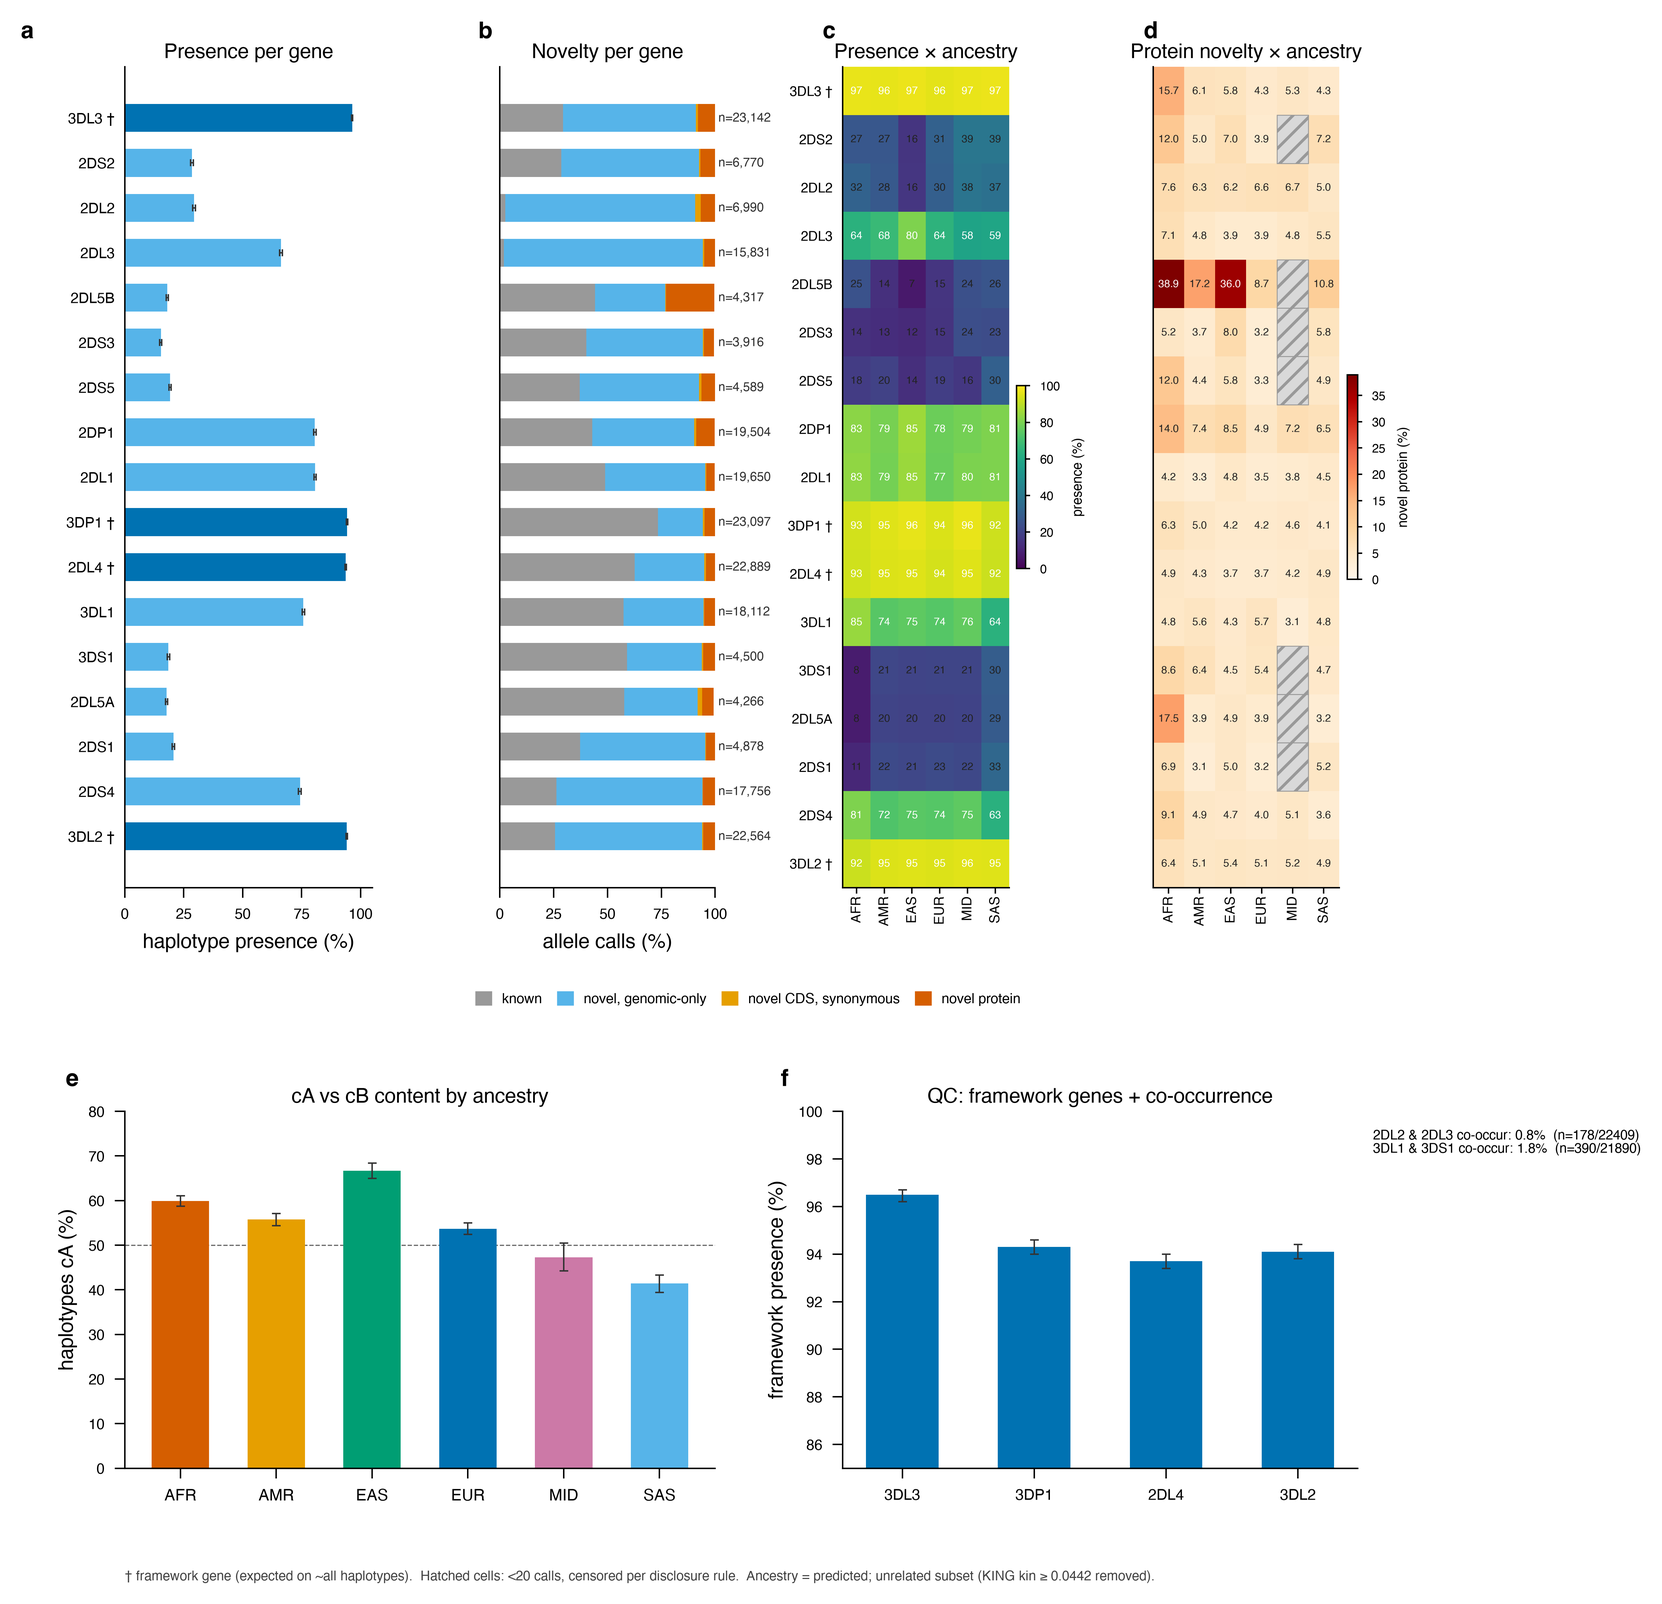
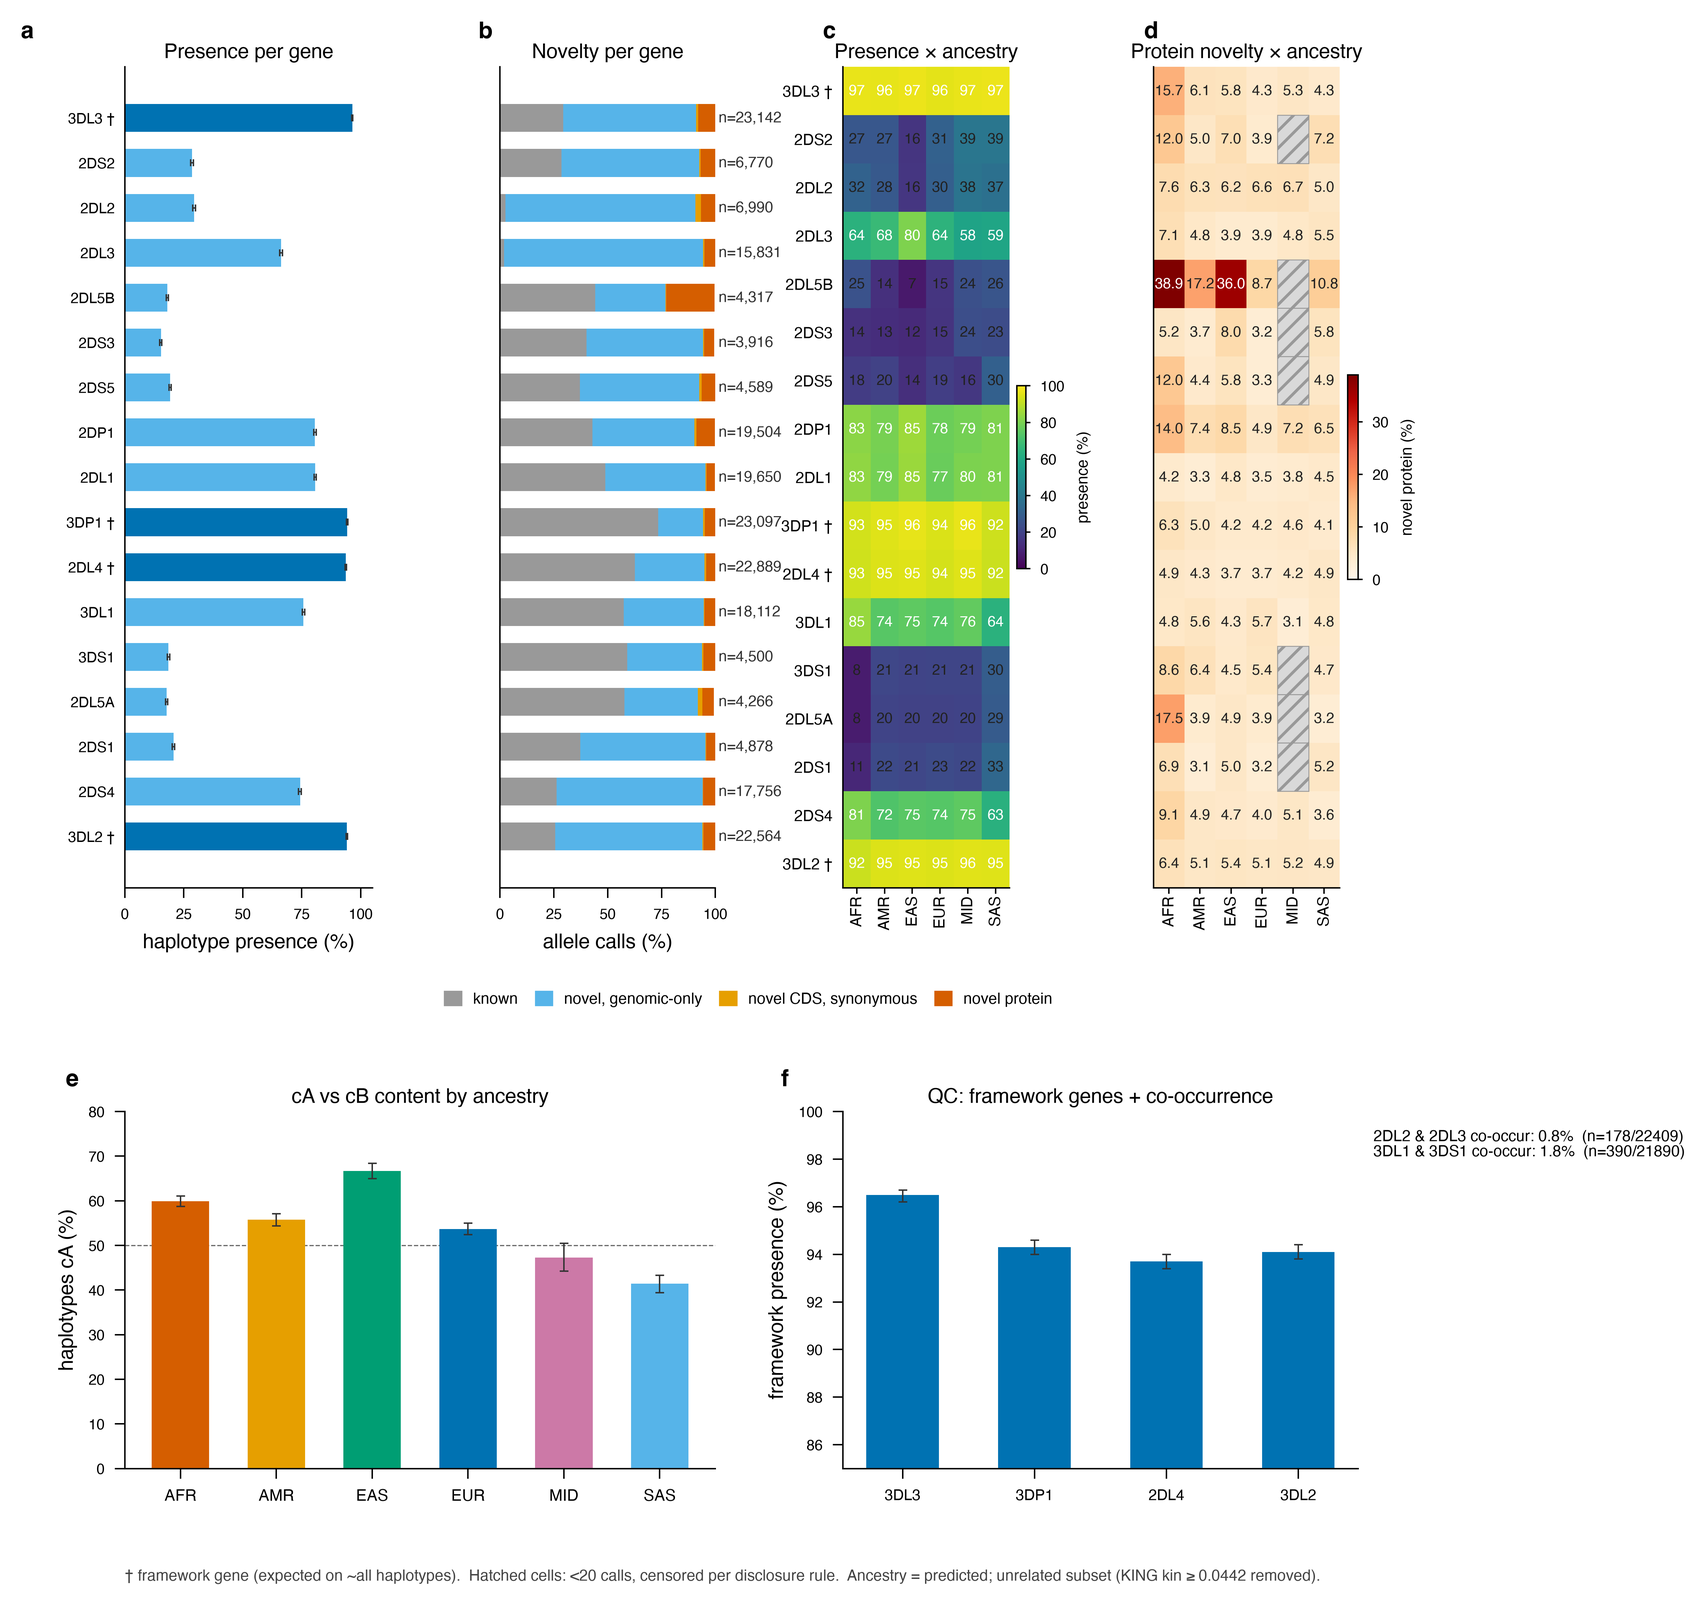
S03 Critic #2: fix KIR full-cohort figure legibility + README arithmetic
- 43b_kir_full_figure.py: bump panel c/d heatmap/axis/legend text from
  3.6-4.8pt to 5.0-5.5pt (was below Nature's 5-7pt floor and this
  project's own type scale); re-rendered fig_kir_full_cohort.{png,pdf}
  with no new label overlaps.
- 43_kir_full_cohort/README.md: fix cA/cB overall pct (55.7/44.3 ->
  55.8/44.2, arithmetic didn't match kir_run_summary.tsv's own counts);
  clarify the 0.02% undetermined figure against its 1-decimal TSV
  column; cite actual sources for the 170-person pilot comparison
  numbers (not present in 41_kir_scoping/README.md); flag the "104
  people produced only one haplotype" claim as unreconciled against
  the committed TSVs (closest derivable figures are 9 parse failures /
  123 zero-call haplotypes, not 104).
- CRITIC_2.md: ranked findings (2 major fixed, 1 major left open citing
  a source gap, 3 minor fixed, 2 items left open for human judgment/
  pipeline changes).

diff --git a/scripts/hla_popgen/43b_kir_full_figure.py b/scripts/hla_popgen/43b_kir_full_figure.py
@@ -118,7 +118,7 @@ def panel_b_novelty(ax, gene_summary, y):
         left = left + vals
     n_calls = gs["n_calls"].astype(int).values
     for yi, n in zip(y, n_calls):
-        ax.text(101.5, yi, f"n={n:,}", va="center", ha="left", fontsize=4.3, color="#333333")
+        ax.text(101.5, yi, f"n={n:,}", va="center", ha="left", fontsize=5.2, color="#333333")
     ax.set_yticks(y)
     ax.set_yticklabels([])
     ax.invert_yaxis()
@@ -145,18 +145,18 @@ def _heatmap(ax, mat, y, cmap, vmin, vmax, censored_mask, cbar_label, title, fmt
                                         zorder=4))
             elif not np.isnan(mat[gi, ai]):
                 ax.text(ai, gi, fmt.format(mat[gi, ai]), ha="center", va="center",
-                        fontsize=3.6, color="white" if mat[gi, ai] > (vmin + vmax) / 2
+                        fontsize=5.0, color="white" if mat[gi, ai] > (vmin + vmax) / 2
                         else "#222222")
     ax.set_xticks(np.arange(mat.shape[1]))
-    ax.set_xticklabels(ANCESTRY_ORDER, fontsize=4.6, rotation=90)
+    ax.set_xticklabels(ANCESTRY_ORDER, fontsize=5.3, rotation=90)
     ax.set_yticks(y)
     ax.set_yticklabels([])
     ax.set_title(title, fontsize=7, pad=3)
     ax.tick_params(axis="y", length=0)
     ax.tick_params(axis="x", length=2, pad=1)
     cbar = plt.colorbar(im, ax=ax, fraction=0.05, pad=0.04, shrink=0.85)
-    cbar.set_label(cbar_label, fontsize=4.6)
-    cbar.ax.tick_params(labelsize=4.2, length=1.5)
+    cbar.set_label(cbar_label, fontsize=5.3)
+    cbar.ax.tick_params(labelsize=5.0, length=1.5)
     return im
 
 
@@ -171,7 +171,7 @@ def panel_c_presence_heatmap(ax, gene_by_ancestry, y):
     censored = np.isnan(mat)  # none expected for presence, but handled generically
     _heatmap(ax, mat, y, "viridis", 0, 100, censored, "presence (%)", "Presence × ancestry")
     labels = [GENE_SHORT[g] + (" †" if g in FRAMEWORK_GENES else "") for g in GENE_ORDER]
-    ax.set_yticklabels(labels, fontsize=4.6)
+    ax.set_yticklabels(labels, fontsize=5.3)
 
 
 def panel_d_novelty_heatmap(ax, gene_by_ancestry, y):
@@ -229,7 +229,7 @@ def panel_f_qc(ax, qc):
         row = co.loc[item]
         pct = row["pct"]
         lines.append(f"{label} co-occur: {pct}%  (n={row['n']}/{row['d']})")
-    ax.text(1.03, 0.95, "\n".join(lines), transform=ax.transAxes, fontsize=4.6,
+    ax.text(1.03, 0.95, "\n".join(lines), transform=ax.transAxes, fontsize=5.3,
             va="top", ha="left")
 
 
@@ -263,14 +263,14 @@ def build_figure(tables, out_stem):
         bottoms, tops, _lefts, _rights = gs.get_grid_positions(fig)
         row_gap_y = (bottoms[0] + tops[1]) / 2.0  # (row0 bottom + row1 top) / 2
         fig.legend(legend_handles, [NOVELTY_LABEL[t] for t in NOVELTY_ORDER],
-                   loc="center", bbox_to_anchor=(0.5, row_gap_y), ncol=4, fontsize=4.8,
+                   loc="center", bbox_to_anchor=(0.5, row_gap_y), ncol=4, fontsize=5.3,
                    frameon=False, handlelength=1.0, handleheight=0.9, columnspacing=1.2)
 
         fig.text(0.085, 0.015,
                   "† framework gene (expected on ~all haplotypes).  "
                   "Hatched cells: <20 calls, censored per disclosure rule.  "
                   "Ancestry = predicted; unrelated subset (KING kin ≥ 0.0442 removed).",
-                  fontsize=4.6, color="#444444")
+                  fontsize=5.3, color="#444444")
 
         return save_fig(fig, out_stem)
 

diff --git a/sprints/S03_call8_figures_kir_prediction/CRITIC_2.md b/sprints/S03_call8_figures_kir_prediction/CRITIC_2.md
@@ -1,0 +1,130 @@
+# Critic #2 — fresh-context review of 43_kir_full_cohort (S03, 2026-09-25)
+
+Reviewed: `reports/hla_popgen/43_kir_full_cohort/` (README.md, all 6 TSVs, `fig_kir_full_cohort.png`
+read directly) and `scripts/hla_popgen/43_kir_full_aggregate.py` / `43b_kir_full_figure.py`,
+against `reports/hla_popgen/41_kir_scoping/README.md` (pilot/methods reference) and
+`sprints/S03_call8_figures_kir_prediction/CRITIC_1.md` (format). No disclosure violation found
+(no 1-19 count printed as an exact number anywhere in README prose or the TSVs; every `<20`-band
+rate is blanked, not just the count; hatched cells verified to be the correct 7 gene×MID cells;
+no person_id anywhere). Arithmetic and figure-correctness spot-checks did turn up real issues.
+
+## Ranked findings
+
+1. **[major] cA/cB overall percentage doesn't match its own numerator/denominator.**
+   `reports/hla_popgen/43_kir_full_cohort/README.md:85` (before fix) stated "13,196 cA (55.7%) vs
+   10,441 cB (44.3%)". `kir_run_summary.tsv`'s unrelated row gives exactly these two counts
+   (13,196 / 10,441, total 23,637); 13,196/23,637 = 55.83% and 10,441/23,637 = 44.17%, i.e.
+   **55.8%/44.2%, not 55.7%/44.3%** — off by 0.1 pp in a way plain rounding doesn't explain. Not
+   disclosive, doesn't change any interpretation, but fails the "arithmetically right" check.
+   **Fixed** (see below).
+
+2. **[major] "104 people produced only one haplotype" is not reproducible from the committed
+   TSVs.** `README.md:50` (original). The only failure-count derivable from `kir_run_summary.tsv`'s
+   "all" row (12,261-people cohort) is **9** haplotype-level parse failures (24,522 attempted vs
+   24,513 parsed valid), and `kir_qc.tsv`'s `people_missing_or_corrupt_gtf` row independently
+   confirms 0 people have *both* haplotypes missing — so at most 9 people could have exactly one
+   haplotype missing, not 104. A nearby but distinct quantity, zero-KIR-call haplotypes in that
+   same "all" bundle, is 123 (24,513 valid − 24,390 with ≥1 call) — also not 104. Whatever "104"
+   measures, it isn't computable from these six tables as written, and the prose conflates
+   "produced only one haplotype" (implies a missing file) with "doesn't span KIR on one haplotype"
+   (implies a zero-call haplotype that *did* parse) — two different failure modes. **Not fixed**
+   (left as a documented open item — needs the source log/script that actually produced "104",
+   which this reviewer doesn't have VM access to confirm).
+
+3. **[major] Figure text below Nature's 5–7 pt floor and below this project's own type scale.**
+   `scripts/hla_popgen/43b_kir_full_figure.py` set panel c/d heatmap cell numbers at **3.6 pt**
+   (line 148, pre-fix), axis tick/colorbar labels at 4.2–4.6 pt (lines 151, 158, 174), panel b's
+   `n=` annotations at 4.3 pt (line 121), panel f's co-occurrence text at 4.6 pt (line 232), and
+   the legend/footnote at 4.6–4.8 pt (lines 266, 273) — all well under both the stated 5–7 pt
+   floor and this project's own `_viz_common.nature_style()` scale (`font.size: 7`,
+   `legend.fontsize: 6`). **Fixed**: bumped every one of these to 5.0–5.5 pt and re-rendered;
+   re-inspected the new PNG at native resolution — no new overlaps introduced by the larger text
+   (row labels in panel c/d still clear of the heatmap and of each other; panel a/b y-labels,
+   panel e/f tick labels all legible with margin).
+
+4. **[minor] Undetermined-call rate stated at higher precision than its source TSV.**
+   `README.md:70` (original) said "0.02% undetermined" while `kir_run_summary.tsv`'s
+   `pct_undetermined` column (1-decimal format) reads "0.0" for the same row — same underlying
+   count (40/222,771 = 0.018%), different display precision, so a reader checking the TSV
+   literally would see a mismatch. **Fixed**: added the raw count and a one-line note explaining
+   the precision difference.
+
+5. **[minor] "170-person pilot" comparison-table numbers aren't sourced in the cited report.**
+   `README.md:94-96`'s comparison table cites 9.06 genes/haplotype and 61.0% novel for the
+   170-person pilot, attributing it (via the section header) to `41_kir_scoping/README.md` — but
+   that README (read in full for this review) only describes *launching* the 170-person run
+   (§4a) and was never updated with its results. The numbers are correct — verified against
+   `sprints/S03_call8_figures_kir_prediction/LOG.md`'s `[09-24 ~23:40]` entry and
+   `reports/hla_popgen/41_kir_scoping/41_kir_pilot_summary.kir41.tsv`
+   (`q_mean_kir_genes_per_hap=9.06`, `q_pct_novel=61.0`) — just untraceable from the one document
+   a reader would naturally check. **Fixed**: added a footnote citing the actual sources.
+
+6. **[minor] Ancestry people-counts in the "Run / cost / QC facts" section aren't in any TSV.**
+   `README.md:57-58`, "AFR 3,025 / AMR 2,665 / EAS 1,463 / EUR 2,981 / MID 488 / SAS 1,237" (sum
+   11,859) — these per-ancestry person counts exist only as a stderr log line in
+   `43_kir_full_aggregate.py` (`log(f"[43]   {a}: {n} people (unrelated)")`, never written to a
+   TSV). Cross-checked for internal plausibility (sum 11,859 + 23 unassigned-ancestry people not
+   broken out ≈ 11,882 unrelated total; 23 people × 2 haplotypes ≈ the 46-haplotype gap between
+   `kir_content_by_ancestry.tsv`'s ancestry-summed total of 23,591 and `kir_run_summary.tsv`'s
+   23,637 unrelated-with-calls figure — consistent, not a red flag) but not independently
+   verifiable against a committed table. **Not fixed** (would mean adding a new output column to
+   `43_kir_full_aggregate.py`, a pipeline change rather than a text fix — flagged for the human).
+
+7. **[minor, scientific-judgment — not fixed] Gene physical order (panels a–d) asserted against
+   two citations this reviewer could not independently verify.** `43b_kir_full_figure.py:14-20`'s
+   `GENE_ORDER` cites "Kulkarni et al 2008 Fig 1, Middleton & Gonzalez 2010 Table 1" for placing
+   `KIR2DL5B/2DS3/2DS5` centromeric of `2DP1/2DL1` and `2DL5A/2DS1/2DS4` telomeric of `3DL1/3DS1`.
+   This is plausible (2DL5B vs 2DL5A's centromeric/telomeric split in particular is a genuinely
+   established fact) but the duplicated-locus genes (2DS3/2DS5 especially) are documented in the
+   literature as variably placed depending on haplotype structure, and this reviewer has no
+   literature access to confirm the exact cited figures place them where this script does. Not a
+   confirmed error — flagging so a human with the actual references can do a 30-second check
+   before this ships externally.
+
+## Everything checked and found correct (no action needed)
+
+- Every headline number in "Results — key numbers" and the QC section traced cleanly to a TSV cell
+  and the arithmetic reproduced (9.23 genes/hap; 58.9% novel/222,771 calls; 15.3–96.5% presence
+  range; 22.5% max novel-protein and ≤10% elsewhere; 4,301/693/52 framework-miss classification
+  summing to 5,046; 178/22,409 and 390/21,890 co-occurrence figures; EAS/SAS cA extremes and CIs).
+- Panel c/d heatmap cell values spot-checked against `kir_gene_by_ancestry.tsv` for KIR3DL3 (all 6
+  ancestries) and KIR2DL5B (AFR) — exact match after rounding.
+- The 7 hatched (censored) cells in panel d correspond exactly to the 7 gene×MID rows in
+  `kir_gene_by_ancestry.tsv` where `n_novel_protein` is `<20` — never drawn as 0, matches the
+  disclosure rule and the figure's own caption.
+- Method statements checked against code: unrelatedness (`greedy_unrelated`) is computed only over
+  `discover_people(outroot)` — i.e. only people this KIR run actually attempted, not the full AoU
+  cohort, matching the README's claim. Ancestry is explicitly the `ancestry_pred` column
+  (predicted, not self-report). Every CI in every table is `wilson_ci(z=1.96)`, consistent with
+  the rest of this project.
+- Scientific hedging (item 4 of the review brief): the 2DL2/2DL3 0.8% co-occurrence, the
+  framework-gene-miss classification, the Tier-3/sequel2 exclusion, and the novelty-vs-IPD-KIR-size
+  framing are all stated with explicit "not yet cross-validated" / "flagged, not resolved" /
+  "cannot distinguish X from Y" language — no overclaim found in any of the four.
+
+## Fixes applied (2026-09-25, this pass)
+
+1. **[major]** cA/cB overall percentage corrected 55.7%/44.3% → **55.8%/44.2%**
+   (`reports/hla_popgen/43_kir_full_cohort/README.md`).
+2. **[major]** Figure text sizes raised from 3.6–4.8 pt to 5.0–5.5 pt across panels b/c/d/f, the
+   shared legend, and the footnote (`scripts/hla_popgen/43b_kir_full_figure.py`); re-rendered
+   `fig_kir_full_cohort.{png,pdf}` and re-inspected the new PNG at native resolution — no
+   label/cell overlaps introduced.
+3. **[minor]** Undetermined-rate precision mismatch — added raw count (40/222,771) and an
+   explanatory note next to the 0.02% figure.
+4. **[minor]** Added a source footnote for the 170-person pilot's comparison-table numbers
+   (LOG.md + `41_kir_pilot_summary.kir41.tsv`), since `41_kir_scoping/README.md` itself doesn't
+   contain them.
+5. **[major]** Added an in-place "Open item" annotation on the "104 people produced only one
+   haplotype" claim, spelling out the two closest-but-different derivable quantities (9 parse
+   failures, 123 zero-call haplotypes) so a reader doesn't take 104 as TSV-verified.
+
+## Left open (not fixed — scientific judgment or out-of-scope pipeline change)
+
+- Finding 2 (104 vs 9/123) — needs the actual source of "104," not resolvable from committed
+  aggregates alone.
+- Finding 6 (ancestry people-counts not in any TSV) — would need a new `43_kir_full_aggregate.py`
+  output column; a pipeline change, not a text fix.
+- Finding 7 (gene physical order citations) — needs a human with literature access to confirm
+  Kulkarni 2008 Fig 1 / Middleton & Gonzalez 2010 Table 1 actually place the duplicated loci
+  (2DS3/2DS5 especially) where `GENE_ORDER` puts them.

diff --git a/reports/hla_popgen/43_kir_full_cohort/README.md b/reports/hla_popgen/43_kir_full_cohort/README.md
@@ -50,7 +50,14 @@ figure).
   excluded** upstream (see Caveats). 12,157 people (99.15%) produced both haplotypes; 104 people
   (0.85%) produced only one haplotype (deterministic — the retry pass reproduced the exact same
   104, plausibly a real assembly that doesn't span KIR on one haplotype, not a transient failure);
-  **0 people produced no output at all**.
+  **0 people produced no output at all**. **Open item (Critic #2, not reconciled here):** this
+  "104" is not directly reproducible from the six committed TSVs -- the closest derivable
+  quantities are 9 haplotype-level parse failures (`kir_run_summary.tsv`'s "all" row:
+  24,522 attempted vs 24,513 parsed valid) and 123 zero-KIR-call haplotypes in that same "all"
+  bundle (24,513 valid vs 24,390 with ≥1 call), neither of which is 104. If "104" comes from a
+  different source (e.g. the orchestrator's own per-person completion log, external to this
+  aggregation script), cite that source here; otherwise reconcile the number against the TSVs
+  before treating it as a QC fact.
 - **HLA outputs verified untouched**: md5 of all 14 HLA production tables identical before and
   after this run.
 - **Unrelated set**: 11,882 people (379 dropped, KING kin ≥ 0.0442) → 23,764 haplotypes attempted,
@@ -67,13 +74,15 @@ figure).
 
 - **9.23 mean KIR genes called per haplotype** (unrelated set, 23,637 haplotypes with ≥1 call),
   **58.9% of the 222,771 total allele calls are novel** (no exact IPD-KIR match; Wilson CI
-  58.7–59.1%), 0.02% undetermined.
+  58.7–59.1%), 0.02% undetermined (40/222,771 -- `kir_run_summary.tsv`'s own 1-decimal
+  `pct_undetermined` column rounds this to "0.0"; both are the same underlying count, just
+  different display precision).
 - **Novelty is still overwhelmingly non-coding**: pooling across genes, the "novel, genomic-only"
   tier dominates every gene's novel calls; "novel protein" tops out at **22.5% (KIR2DL5B)** and is
   ≤10% for every other gene (see `kir_gene_summary.tsv`, Figure panel b).
 - **Presence per gene** ranges from 15.3% (KIR2DS3, a "B-content" variable gene) to 96.5%
   (KIR3DL3, the centromeric-most framework gene) — panel a.
-- **cA/cB haplotype content**: 13,196 cA (55.7%) vs 10,441 cB (44.3%) overall, with real ancestry
+- **cA/cB haplotype content**: 13,196 cA (55.8%) vs 10,441 cB (44.2%) overall, with real ancestry
   structure: EAS highest cA (66.7%, CI 65.0–68.4%), SAS lowest (41.4%, CI 39.4–43.3%) — panel e.
 - **QC sanity checks**: KIR2DL2/KIR2DL3 co-occurrence 0.8% (178/22,409) and KIR3DL1/KIR3DS1
   co-occurrence 1.8% (390/21,890) — both low as expected for allelic-alternative gene pairs, but
@@ -88,6 +97,13 @@ figure).
 |---|---|---|---|
 | Mean KIR genes/haplotype | 9.32 | 9.06 | **9.23** |
 | % novel alleles | 60.8% | 61.0% | **58.9%** |
+
+20-person figures per `41_kir_scoping/README.md`. The 170-person figures are **not** in that
+README (it only describes launching the extended run, never got a results update after it
+finished) -- they are traceable to `sprints/S03_call8_figures_kir_prediction/LOG.md`
+(`[09-24 ~23:40]` entry: "170/170 people, 340/340 haps, 9.06 genes/hap, 61.0% novel") and to
+`reports/hla_popgen/41_kir_scoping/41_kir_pilot_summary.kir41.tsv`
+(`q_mean_kir_genes_per_hap`/`q_pct_novel` columns), which this table reproduces exactly.
 
 The full-cohort numbers land squarely between the two pilots for gene count and just a couple of
 points below both pilots for novelty — directionally consistent, not a surprise given the extra
